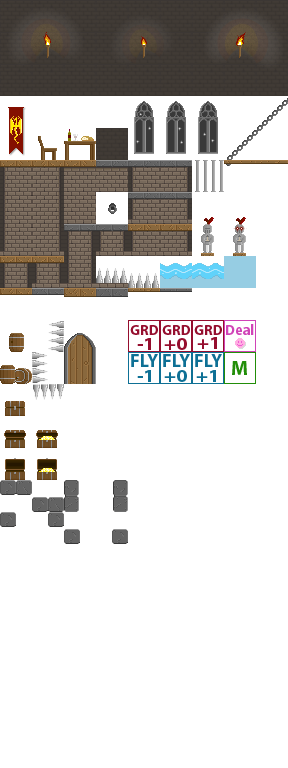
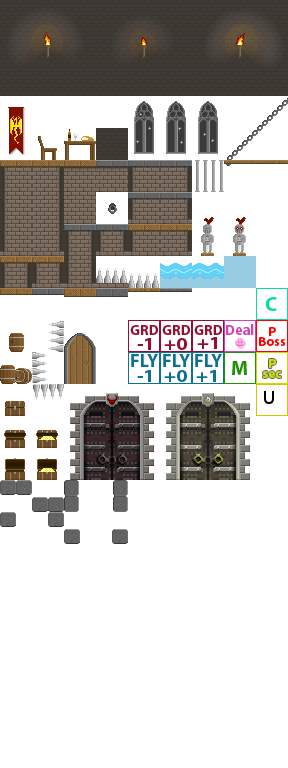
Add(Door):
Added the door spawns - same as chests

Changed region(s): [[0.5625, 0.375, 1.0, 0.625], [0.2188, 0.5, 0.5312, 0.625]]

diff --git a/Sources/src/Door.cpp b/Sources/src/Door.cpp
@@ -18,27 +18,34 @@
  */
 
 /**
- * File: Chest.cpp
+ * File: Door.cpp
  * Creation: 2015-08-27 04:44
  * Vincent Rey <vrey@student.42.fr>
  */
 
-#ifndef __Chest__
-# define __Chest__
+#include "Door.hpp"
 
-# include "Elements.hpp"
+Door::Door(std::string type) {
+	this->SetLayer(10);
+	this->SetDensity(0);
+	this->SetIsSensor(1);
+	this->addAttribute("type", "Door");
+	this->addAttribute("type2", type);
+	this->addAttribute("chest", "1");
+	this->addAttribute("physic", "1");
+	this->SetSize(Vector2(3,3));
+	if (type == "Secret") {
+		this->addAttribute("sprite", "Resources/Images/Door/SecretDoor.png");
+		this->setXStart(Game::spawnSecretDoor.X);
+		this->setYStart(Game::spawnSecretDoor.Y);
+	} if (type == "Boss") {
+		this->addAttribute("sprite", "Resources/Images/Door/BossDoor.png");
+		this->setXStart(Game::spawnBossDoor.X);
+		this->setYStart(Game::spawnBossDoor.Y);
+	}
+	this->display();
+	return;
+}
 
-class Chest: public Elements {
-public:
-	Chest(void);
-	~Chest(void);
-	void		spawn(void);
-	int			isUsed;
-	void		displayInterface(void);
-	void		removeInterface(void);
-	void		ReceiveMessage(Message *m);
-	int			spawnX;
-	int			spawnY;
-};
+Door::~Door(void) {}
 
-# endif

diff --git a/Sources/src/Hero.cpp b/Sources/src/Hero.cpp
@@ -234,6 +234,12 @@ void	Hero::BeginContact(Elements* elem, b2Contact *contact) {
 		Game::currentGame->getShopkeeper()->displayText("This one is for " + std::to_string(this->_shopItemPrice) + "g");
 	} else if (elem->getAttribute("type") == "Chest") {
 		this->_isTouchingChest = true;
+	} else if (elem->getAttribute("type") == "Door") {
+		if (elem->getAttribute("type2") == "Boss") {
+			this->_isTouchingBossDoor = true;
+		} else if (elem->getAttribute("type2") == "Secret") {
+			this->_isTouchingSecretDoor = true;
+		}
 	}
 }
 
@@ -268,6 +274,12 @@ void	Hero::EndContact(Elements *elem, b2Contact *contact) {
 		}
 		if (elem->getAttribute("type") == "Chest") {
 			this->_isTouchingChest = false;
+		} else if (elem->getAttribute("type") == "Door") {
+			if (elem->getAttribute("type2") == "Boss") {
+				this->_isTouchingBossDoor = false;
+		} else if (elem->getAttribute("type2") == "Secret") {
+				this->_isTouchingSecretDoor = false;
+		}
 	}
 
 }

diff --git a/Sources/src/Characters.cpp b/Sources/src/Characters.cpp
@@ -53,6 +53,9 @@ Characters::Characters(std::string name) : _name(name), _isRunning(0), _isJump(0
 	this->_canAttack = true;
 	this->_canJump = true;
 	this->_isFlying = false;
+	this->_isTouchingBossDoor = false;
+	this->_isTouchingSecretDoor = false;
+	this->_isTouchingChest = false;
 	this->_isChoosingItem = 0;
 	this->_invincibility = false;
 	this->_grounds.clear();
@@ -753,6 +756,10 @@ void	Characters::_executeAction(int status) {
 		this->unsubscribeFromAll();
 		theSwitchboard.SubscribeTo(this, "escapePressed");
 		Game::chest->displayInterface();
+	} else if (this->_isTouchingBossDoor == true) {
+		std::cout << "GOTO BOSS ROOM" << std::endl;
+	} else if (this->_isTouchingSecretDoor == true) {
+		std::cout << "GOTO SECRET ROOM" << std::endl;
 	}
 }
 

diff --git a/Sources/inc/Game.hpp b/Sources/inc/Game.hpp
@@ -65,6 +65,7 @@ class HUDWindow;
 class Menu;
 class Dealer;
 class Chest;
+class Door;
 
 class Game {
 
@@ -144,10 +145,14 @@ class Game {
 		static int						isPaused;
 		static MenuCharacter			*menuCharacter;
 		static Vector2					spawnDealer;
+		static Vector2					spawnSecretDoor;
+		static Vector2					spawnBossDoor;
 		static Vector2					spawnShop;
 		static Vector2					spawnChest;
 		static Dealer					*dealer;
 		static Chest					*chest;
+		static Door						*bossDoor;
+		static Door						*secretDoor;
 		static bool						toggleMenu;
 
 	private:
@@ -160,5 +165,6 @@ class Game {
 
 # include "Dealer.hpp"
 # include "Chest.hpp"
+# include "Door.hpp"
 
 #endif

diff --git a/Sources/src/Map.cpp b/Sources/src/Map.cpp
@@ -222,7 +222,20 @@ Map		Map::display(void) {
 						Game::chest = new Chest();
 						Game::chest->spawn();
 					}
+				} else if (elem->getAttribute("spawnDoor") != "") {
+					if (elem->getAttribute("doorType") == "boss") {
+						if (Game::bossDoor == nullptr) {
+							Game::spawnBossDoor = Vector2(x, y);
+							Game::bossDoor = new Door("Boss");
+						}
+					} else if (elem->getAttribute("doorType") == "secret") {
+						if (Game::secretDoor == nullptr) {
+						Game::spawnSecretDoor = Vector2(x, y);
+						Game::secretDoor = new Door("Secret");
+					}
+					}
 				}
+
 				elem->display();
 				this->_elemOfTheMap.push_back(elem);
 			}

diff --git a/Sources/inc/Door.hpp b/Sources/inc/Door.hpp
@@ -18,25 +18,20 @@
  */
 
 /**
- * File: Chest.cpp
+ * File: Door.cpp
  * Creation: 2015-08-27 04:44
  * Vincent Rey <vrey@student.42.fr>
  */
 
-#ifndef __Chest__
-# define __Chest__
+#ifndef __Door__
+# define __Door__
 
 # include "Elements.hpp"
 
-class Chest: public Elements {
+class Door: public Elements {
 public:
-	Chest(void);
-	~Chest(void);
-	void		spawn(void);
-	int			isUsed;
-	void		displayInterface(void);
-	void		removeInterface(void);
-	void		ReceiveMessage(Message *m);
+	Door(std::string type);
+	~Door(void);
 	int			spawnX;
 	int			spawnY;
 };

diff --git a/Sources/src/Game.cpp b/Sources/src/Game.cpp
@@ -560,8 +560,12 @@ int							Game::isPaused = 0;
 int							Game::asToStart = 0;
 MenuCharacter				*Game::menuCharacter = nullptr;
 Vector2						Game::spawnShop = Vector2();
+Vector2						Game::spawnBossDoor = Vector2();
+Vector2						Game::spawnSecretDoor = Vector2();
 Vector2						Game::spawnDealer = Vector2();
 Dealer						*Game::dealer = nullptr;
+Door						*Game::bossDoor = nullptr;
+Door						*Game::secretDoor = nullptr;
 Vector2						Game::spawnChest = Vector2();
 Chest						*Game::chest = nullptr;
 bool						Game::toggleMenu = true;

diff --git a/Sources/inc/Characters.hpp b/Sources/inc/Characters.hpp
@@ -157,6 +157,8 @@ class Characters : public Elements {
 		std::string		_currentTrigger;
 		bool			_isDisengaging;
 		bool			_isTouchingChest;
+		bool			_isTouchingSecretDoor;
+		bool			_isTouchingBossDoor;
 		std::string		_speMove;
 		SpecialMoves*	_eqMove;
 		Weapon*			_weapon;
